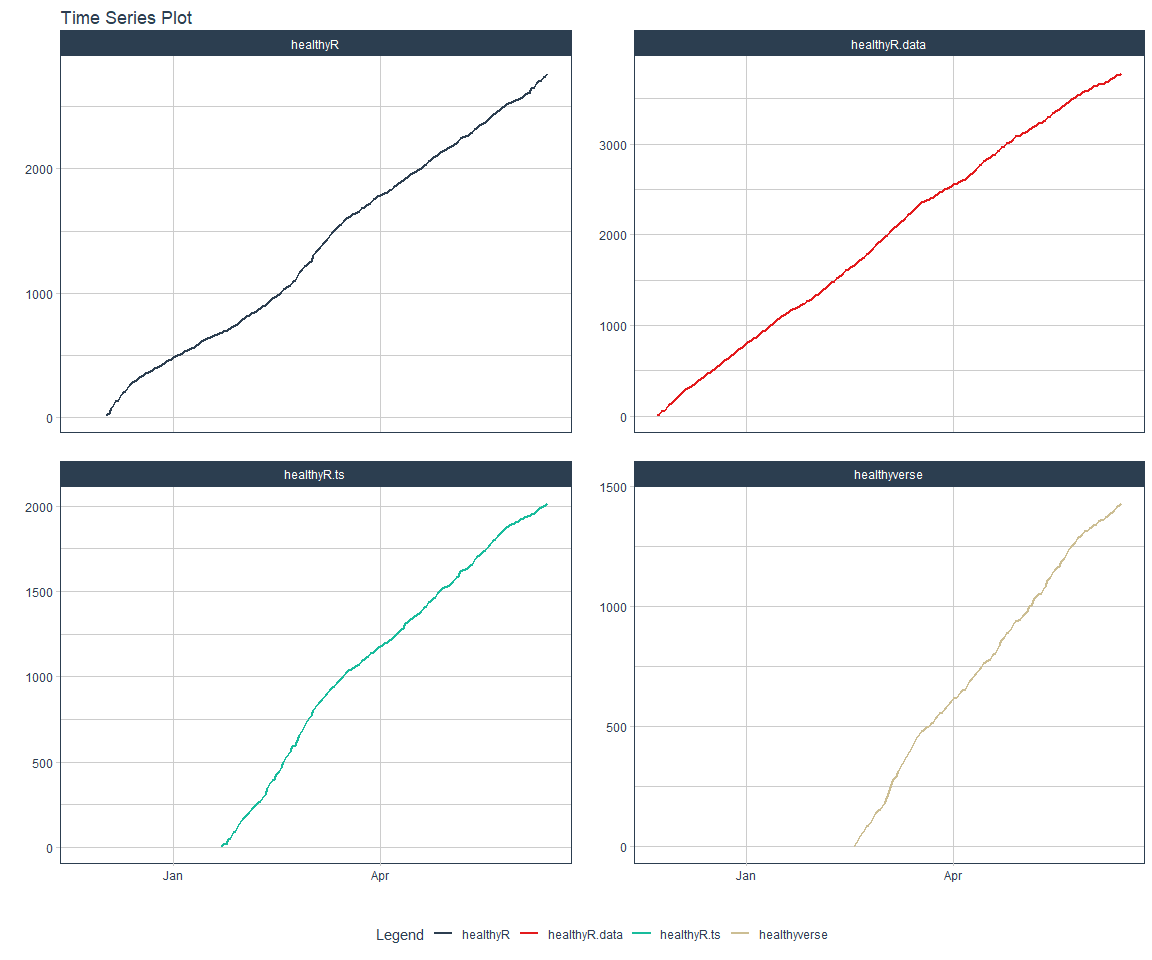
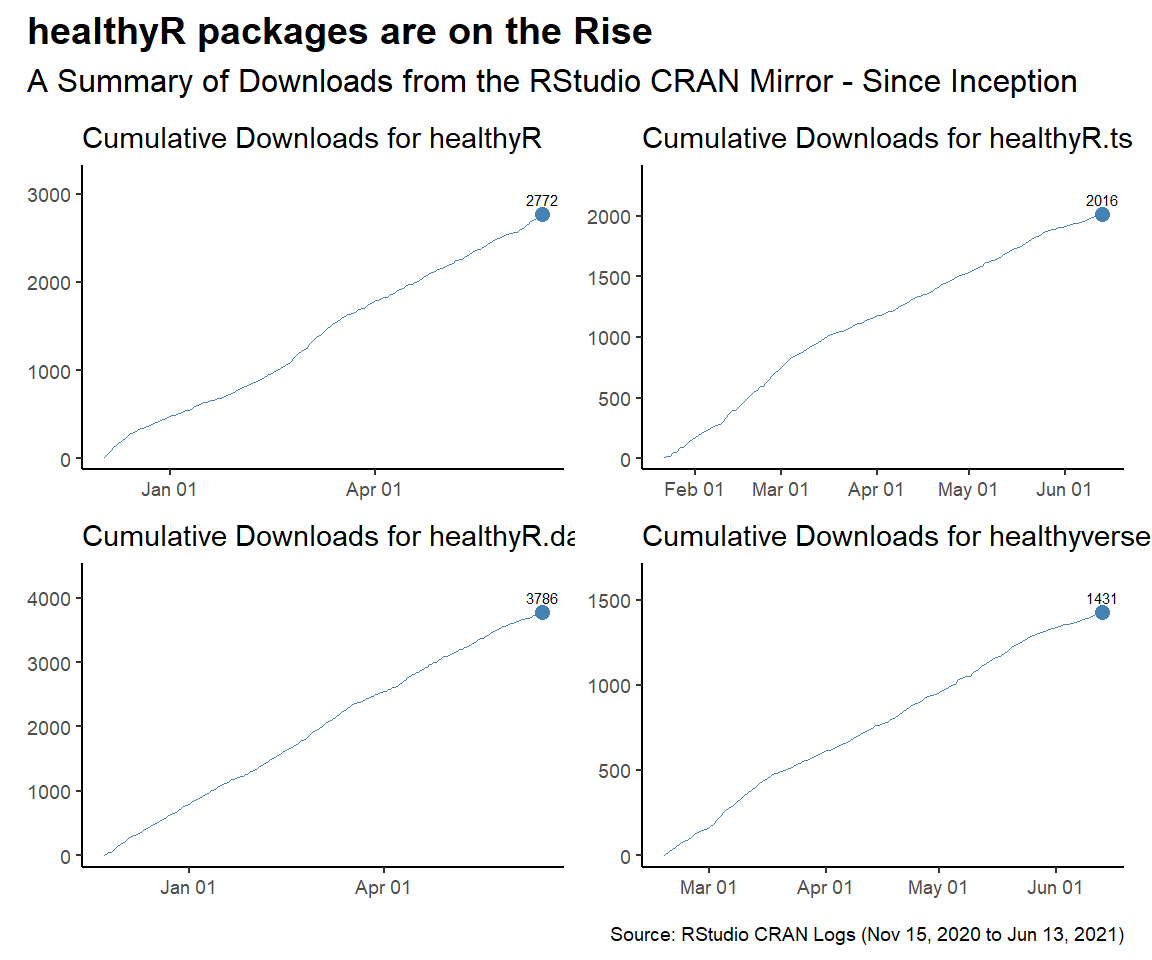
make plot_pkg function
rebuild site

diff --git a/README.md b/README.md
@@ -159,23 +159,23 @@ total_downloads %>%
 # Cumulative Downloads by Package
 
 ``` r
-total_downloads %>% 
-  tibble::as_tibble() %>% 
-  select(date, package) %>% 
-  group_by(package) %>% 
-  summarise_by_time(.date_var = date, downloads = n()) %>% 
-  ungroup() %>% 
-  group_by(package) %>%
-  mutate(cum_dl = cumsum(downloads)) %>% 
-  #ungroup() %>% 
-  plot_time_series(
-    .date_var = date
-    , .value = cum_dl
-    , .color_var = package
-    , .smooth = FALSE
-    , .interactive = FALSE
-    , .line_size = 1
-    , .facet_ncol = 2
+p1 <- plot_cumulative_downloads_pkg(total_downloads, pkg = "healthyR")
+p2 <- plot_cumulative_downloads_pkg(total_downloads, pkg = "healthyR.ts")
+p3 <- plot_cumulative_downloads_pkg(total_downloads, pkg = "healthyR.data")
+p4 <- plot_cumulative_downloads_pkg(total_downloads, pkg = "healthyverse")
+
+f <- function(date) format(date, "%b %d, %Y")
+patchwork_theme <- theme_classic(base_size = 24) +
+  theme(
+    plot.title = element_text(face = "bold"),
+    plot.caption = element_text(size = 14)
+  )
+p1 + p2 + p3 + p4 +
+  plot_annotation(
+    title    = "healthyR packages are on the Rise",
+    subtitle = "A Summary of Downloads from the RStudio CRAN Mirror - Since Inception",
+    caption  = glue::glue("Source: RStudio CRAN Logs ({f(start_date)} to {f(end_date)})"),
+    theme    = patchwork_theme
   )
 ```
 
